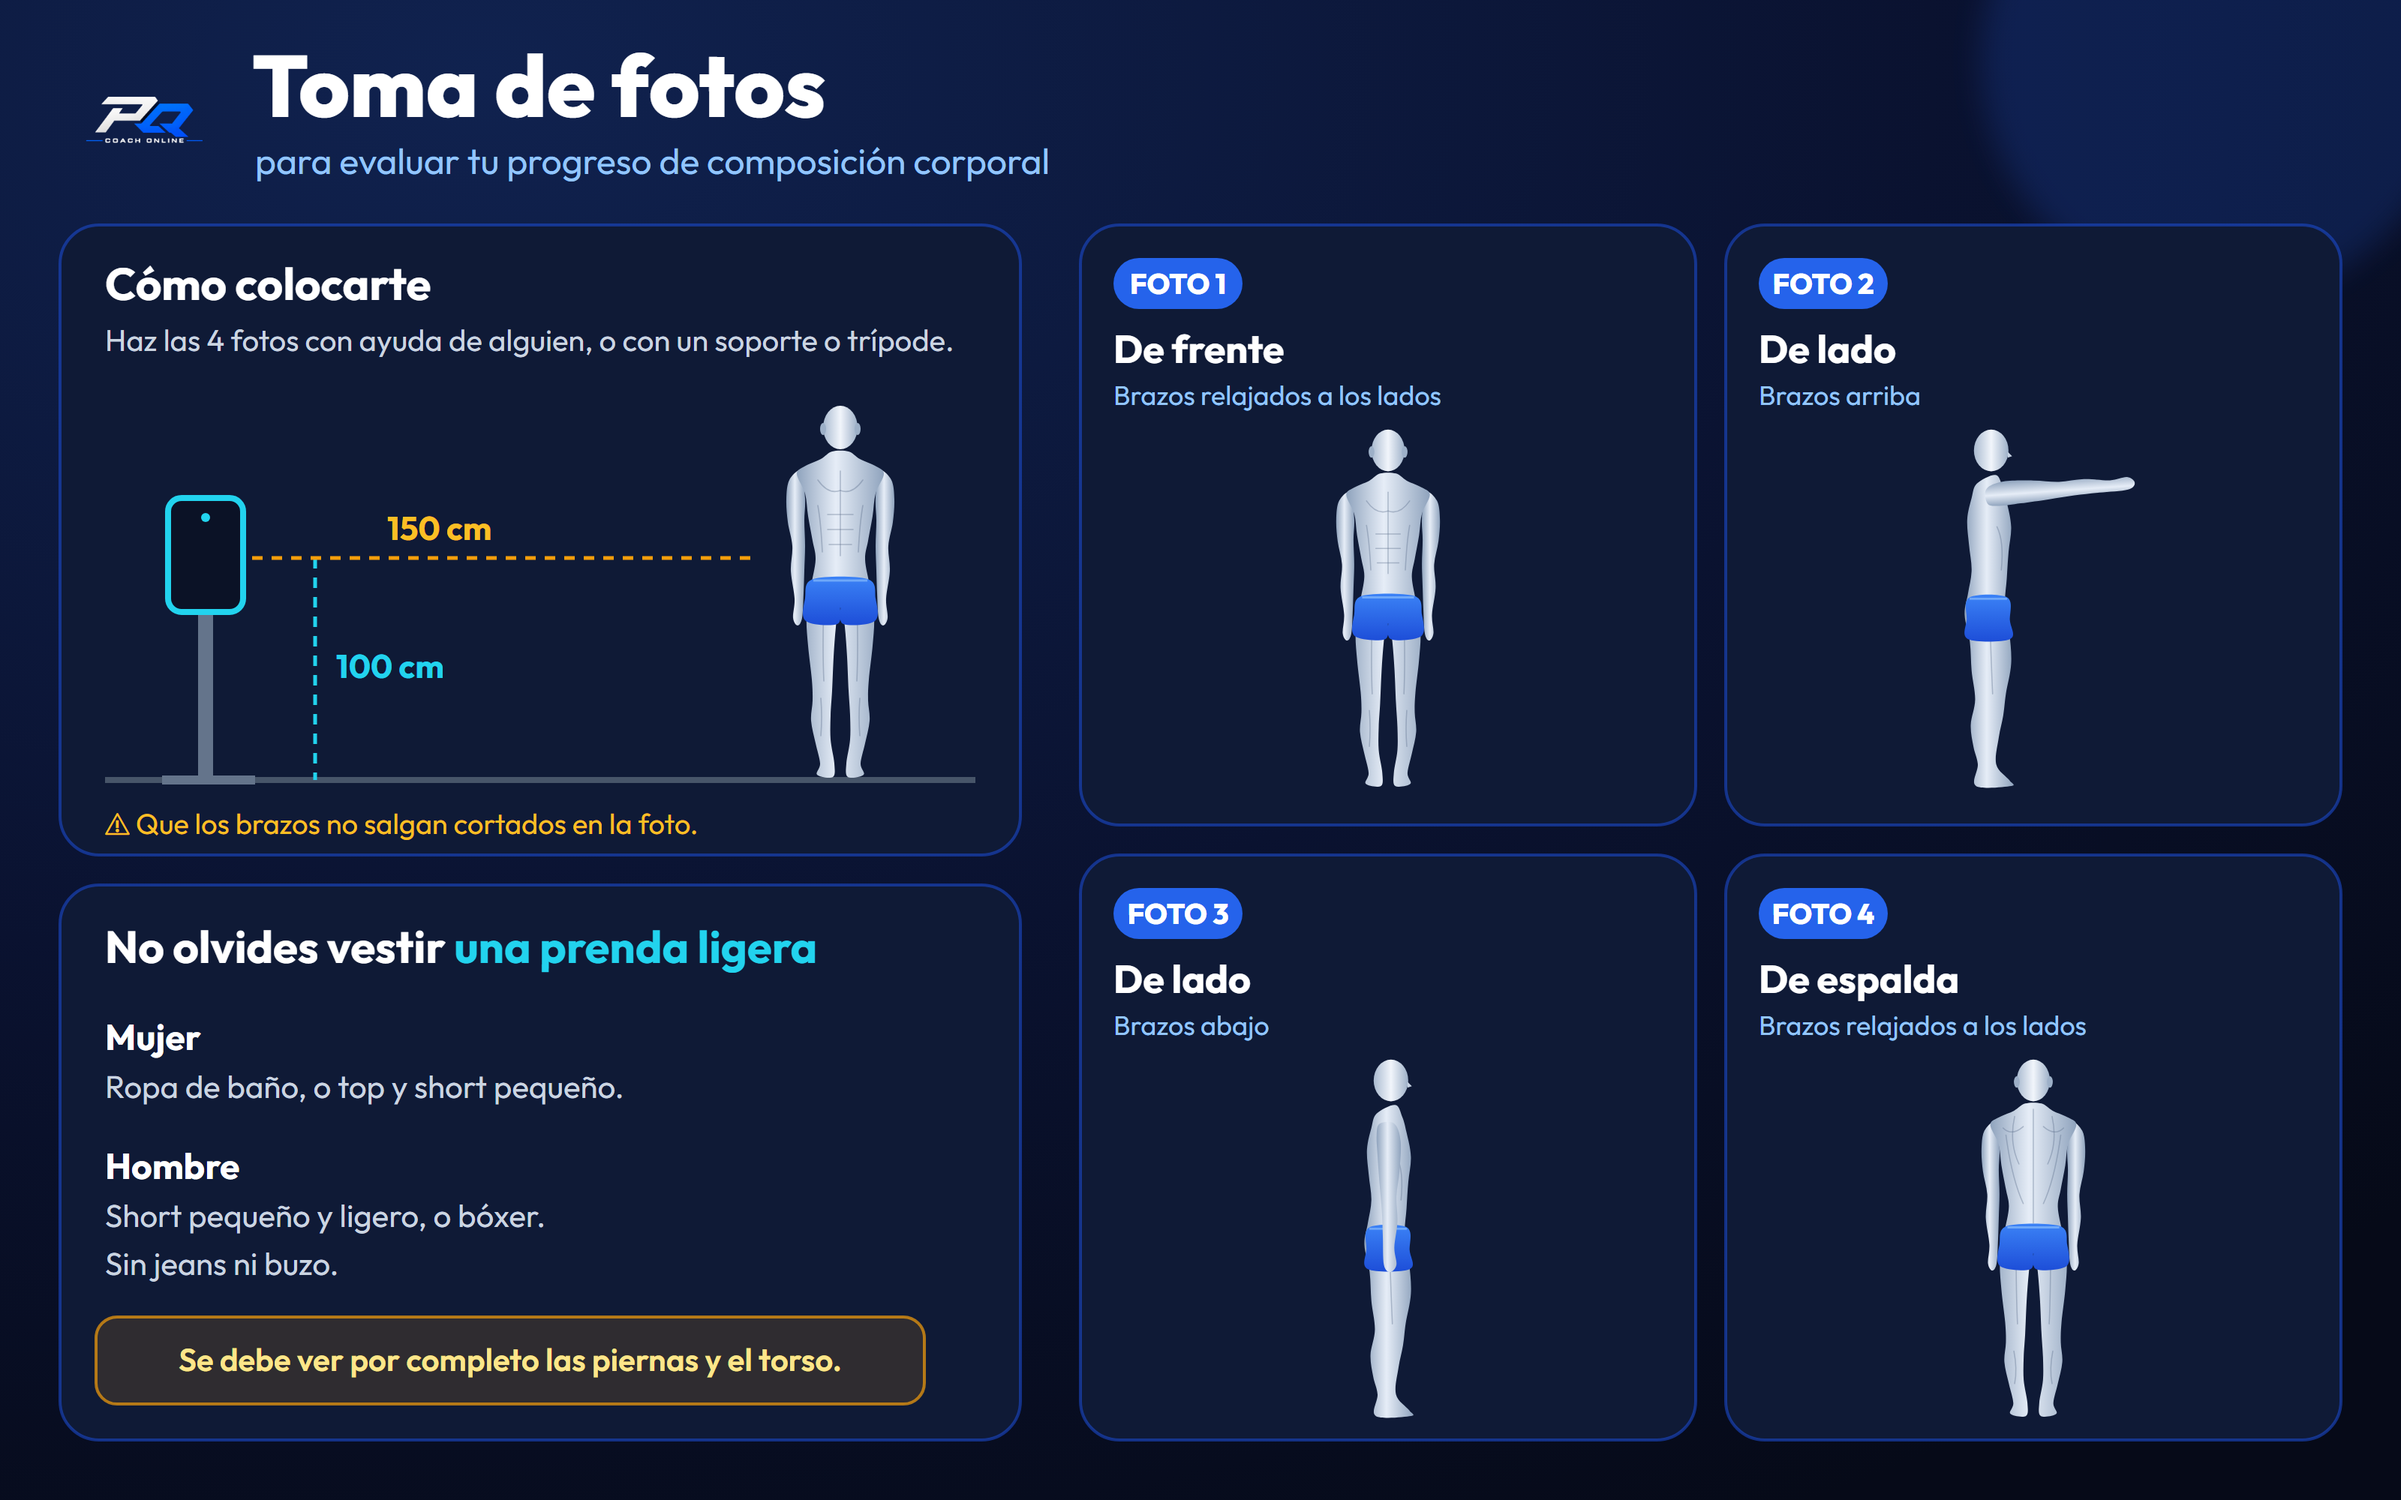
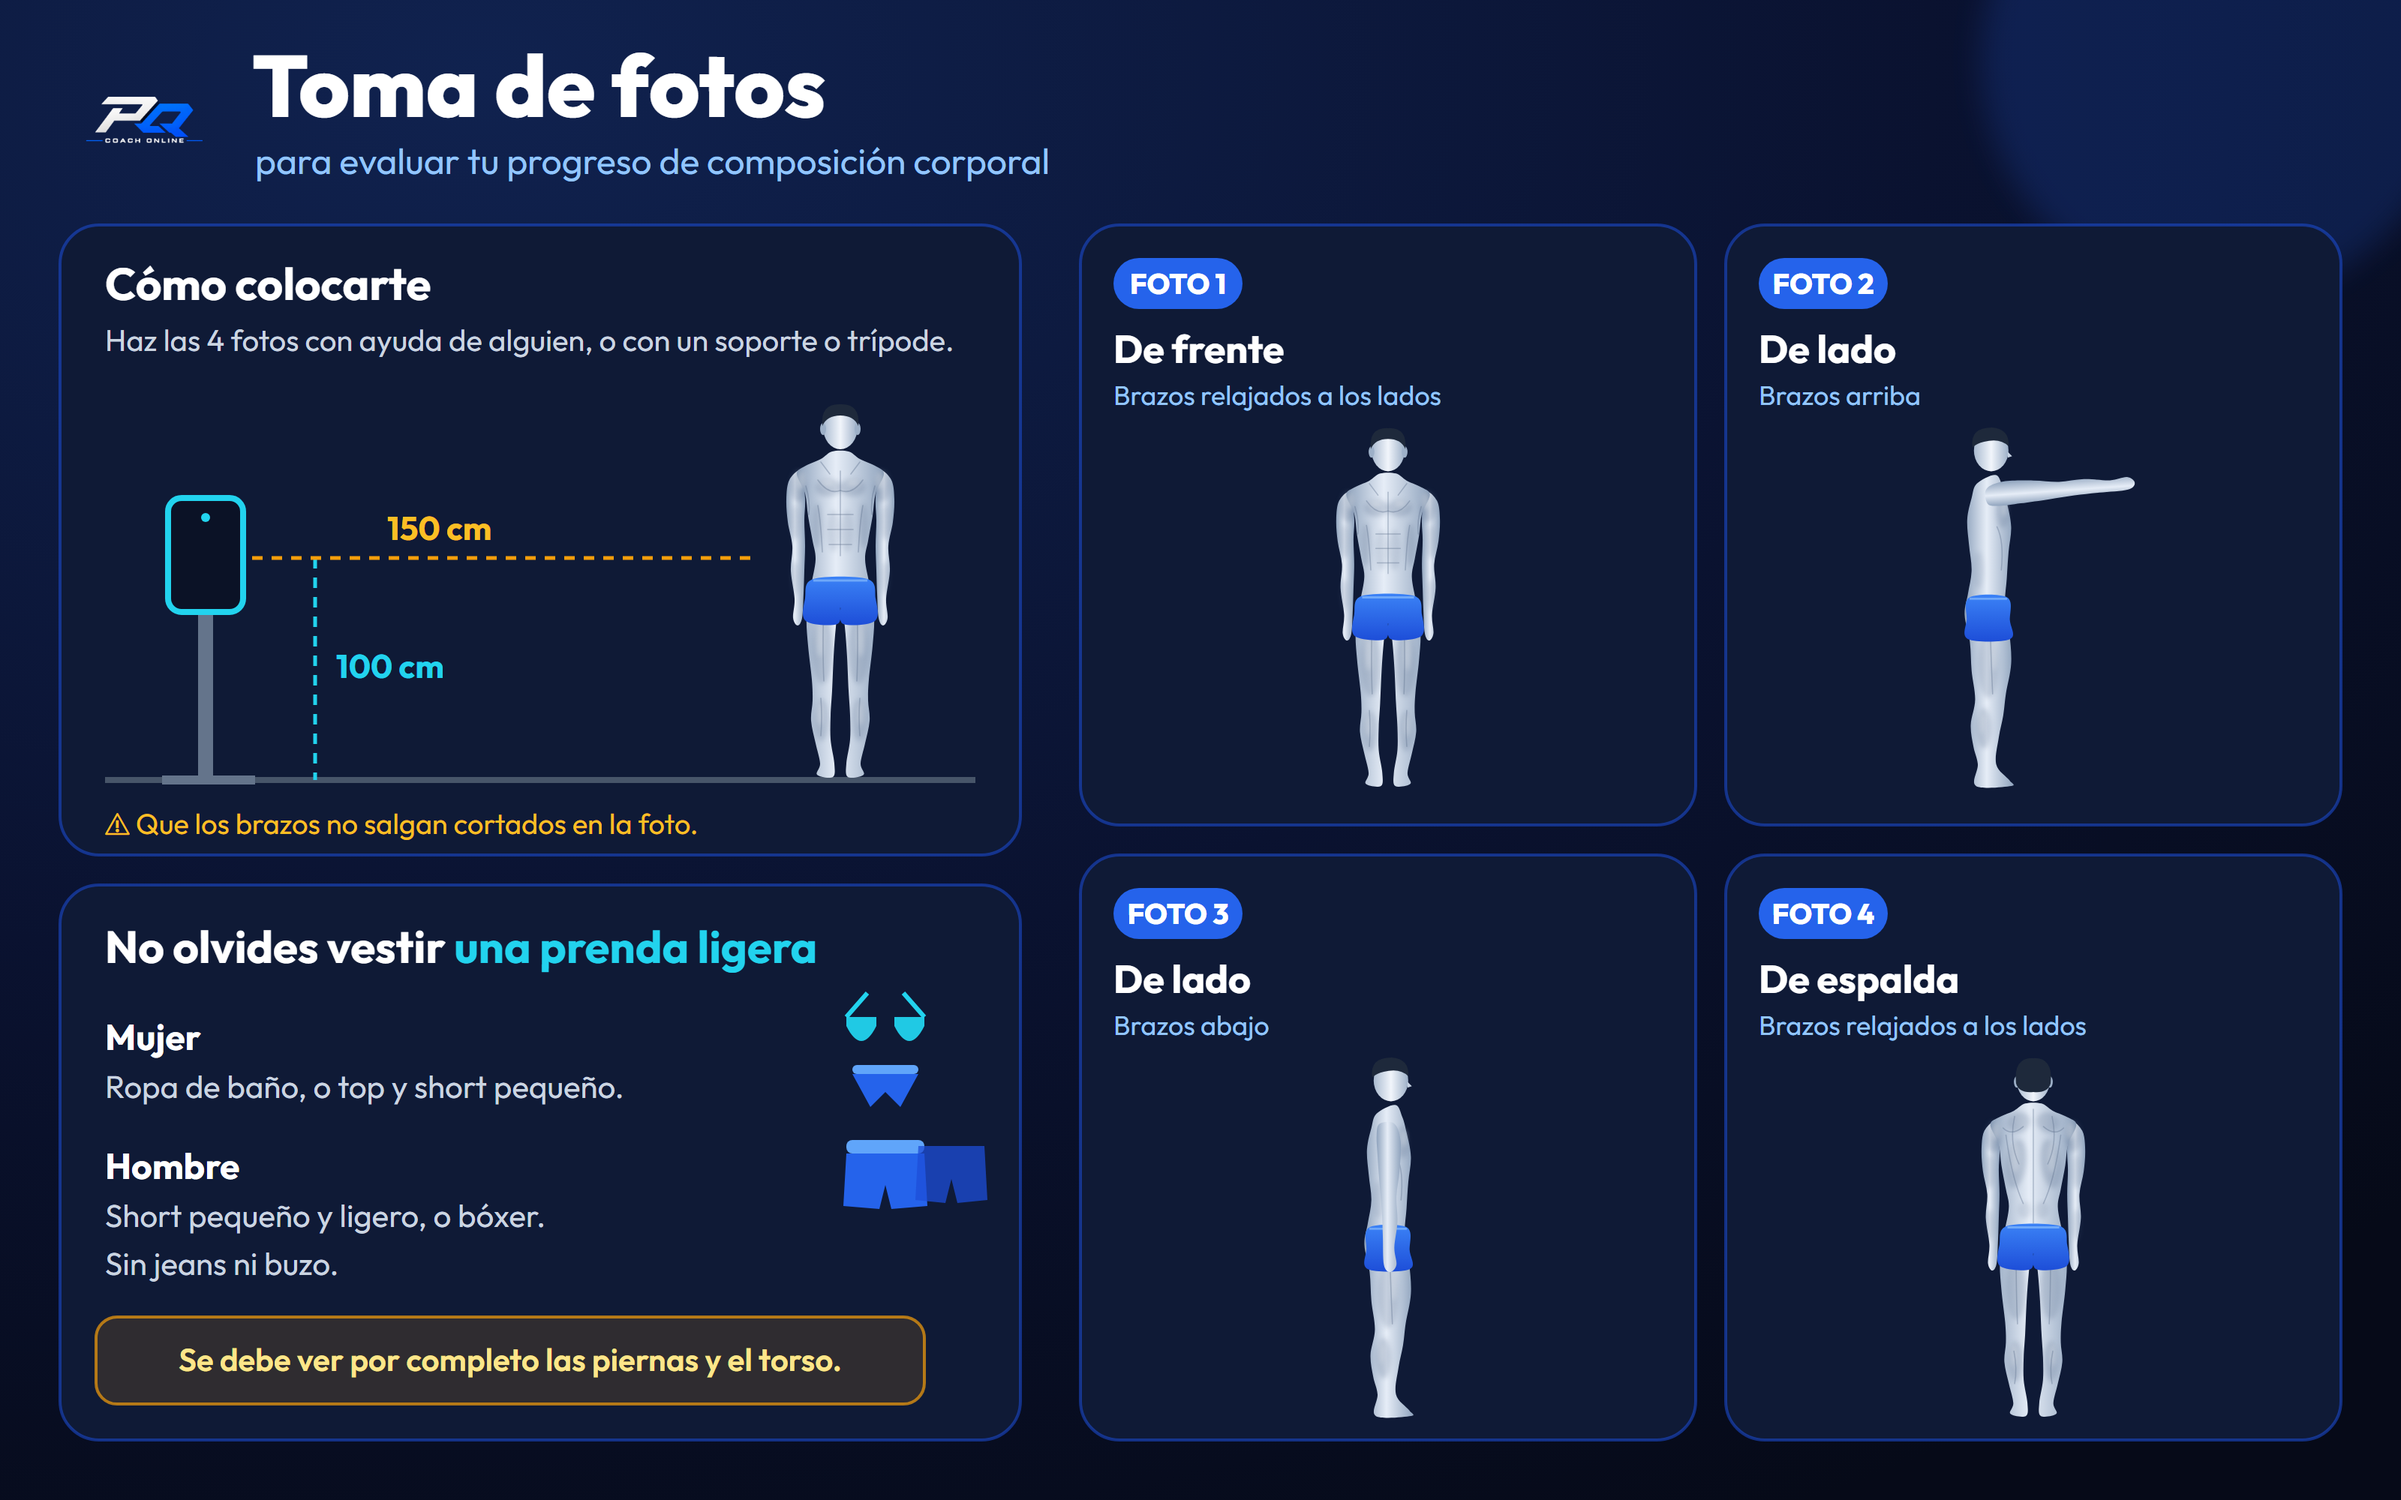
Guia de fotos mas realista con iconos; pasos y recordatorio cada 4 semanas; disponibilidad obligatoria

diff --git a/index.html b/index.html
@@ -666,7 +666,14 @@
             <p>📸 <strong>Fotos de tu estado físico.</strong> Tómalas siguiendo esta guía:</p>
             <img src="guia-fotos.png" alt="Guía para tomar las 4 fotos de estado físico" style="width:100%;border-radius:12px;display:block;margin:10px 0">
             <div style="padding:14px;border:2px solid #f59e0b;border-radius:14px;background:rgba(245,158,11,.10)">
-              <p style="margin:0 0 8px"><strong style="color:#fbbf24">⚠ Copia este link y guárdalo.</strong> Es el único lugar donde podrás subir tus fotos cuando las tengas.</p>
+              <p style="margin:0 0 8px"><strong style="color:#fbbf24">⚠ Copia este link y guárdalo.</strong> Es el único lugar donde podrás subir tus fotos.</p>
+              <p style="margin:0 0 6px"><strong>Cuando ya tengas tus fotos:</strong></p>
+              <ol style="margin:0 0 10px 20px;padding:0;line-height:1.6">
+                <li>Abre el link (haz clic en él o pégalo en el buscador).</li>
+                <li>Escribe tu correo, si no aparece ya puesto.</li>
+                <li>Elige tus 4 fotos desde tu galería y toca "Subir fotos".</li>
+              </ol>
+              <p style="margin:0 0 10px;color:#fde68a"><strong>🔁 Repite este proceso cada 4 semanas</strong>, que es cuando envías tus fotos. Será siempre el mismo link: guárdalo bien.</p>
               <input type="text" id="linkFotosFisico" readonly style="width:100%;margin-bottom:8px;font-size:.85rem" onclick="this.select()">
               <button type="button" id="btnCopiarFisico" class="btn btn-submit" style="width:100%">📋 Copiar mi link</button>
               <div id="copiadoFisico" style="font-size:.9rem;color:#34d399;min-height:20px;margin-top:6px" role="status"></div>

diff --git a/entrenamiento.html b/entrenamiento.html
@@ -101,8 +101,8 @@
         <div class="form-step" id="step-3">
           <div class="step-header"><span class="step-badge">Paso 3 de 5</span><h2>Tu disponibilidad</h2></div>
           <div class="form-group full-width">
-            <label>¿Qué días no puedes ir a entrenar?</label>
-            <small class="field-hint">Marca los días que no te sirven. Si puedes cualquier día, no marques ninguno.</small>
+            <label>¿Qué días no puedes ir a entrenar? <span class="req">*</span></label>
+            <small class="field-hint">Marca los días que no te sirven. Con esto tu coach arma tu plan. Si puedes cualquier día, marca la última opción.</small>
             <div class="chips-container" id="chipsDiasNo">
               <label class="chip-item"><input type="checkbox" name="diasNo" value="Lunes"><span>Lunes</span></label>
               <label class="chip-item"><input type="checkbox" name="diasNo" value="Martes"><span>Martes</span></label>
@@ -111,6 +111,7 @@
               <label class="chip-item"><input type="checkbox" name="diasNo" value="Viernes"><span>Viernes</span></label>
               <label class="chip-item"><input type="checkbox" name="diasNo" value="Sábado"><span>Sábado</span></label>
               <label class="chip-item"><input type="checkbox" name="diasNo" value="Domingo"><span>Domingo</span></label>
+              <label class="chip-item"><input type="checkbox" name="diasNo" value="Puedo entrenar cualquier día"><span>Puedo entrenar cualquier día</span></label>
             </div>
           </div>
           <div class="form-group full-width">

diff --git a/entrenamiento.js b/entrenamiento.js
@@ -57,11 +57,19 @@ function validar(i) {
   }
   if (i === 2) {
     const d = checked('diasNo');
+    if (d.length === 0) return 'Marca los días que no puedes ir a entrenar, o "Puedo entrenar cualquier día".';
     if (d.length >= 7) return 'Necesitas al menos un día disponible para entrenar.';
     if (!val('tiempoSesion')) return 'Elige cuánto tiempo tienes como máximo por sesión.';
   }
   return '';
 }
+
+// La opción "Puedo entrenar cualquier día" es excluyente con los días marcados
+document.querySelectorAll('input[name="diasNo"]').forEach((c) => c.addEventListener('change', () => {
+  if (!c.checked) return;
+  const libre = c.value === 'Puedo entrenar cualquier día';
+  document.querySelectorAll('input[name="diasNo"]').forEach((o) => { if (o !== c && (libre || o.value === 'Puedo entrenar cualquier día')) o.checked = false; });
+}));
 
 // Si viene del cuestionario de nutrición (o con ?e= / ?n=), el correo y el nombre ya llegan puestos
 const qs = new URLSearchParams(location.search);
